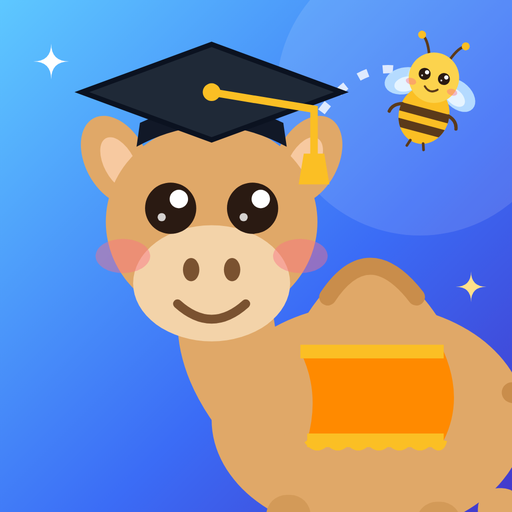
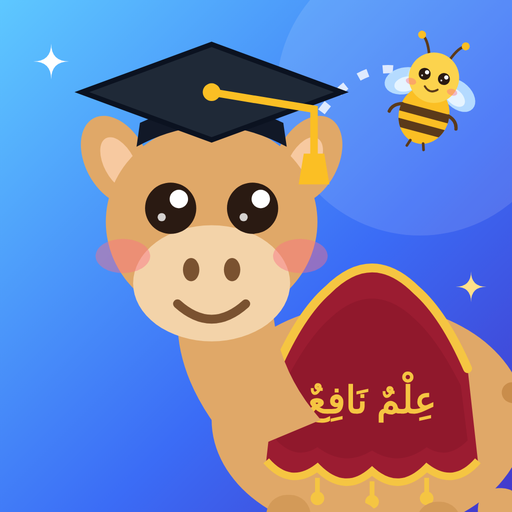
Сабур: настоящая бордовая попона по горбу с бахромой и кистями, каллиграфия «عِلْمٌ نَافِعٌ» (полезное знание)
Claude-Session: https://claude.ai/code/session_01Cm4BGiETkxANavc8i9VW5H

Changed region(s): [[0.5, 0.5, 0.9375, 1.0]]

diff --git a/index.html b/index.html
@@ -327,6 +327,7 @@ div.fb{cursor:default}
 body.plon{padding-bottom:300px}
 /* ===== Новое оформление в духе Учи.ру: светлая и тёмная тема (переключатель ☀/🌙) ===== */
 @font-face{font-family:'Nunito';src:url('fonts/nunito.woff') format('woff');font-weight:300 900;font-display:swap}
+@font-face{font-family:'Ruqaa';src:url('fonts/ruqaa.woff') format('woff');font-weight:700;font-display:swap}
 @font-face{font-family:'Hafs';src:url('fonts/hafs.woff') format('woff');font-display:swap}
 @font-face{font-family:'Sch';src:url('fonts/sch.woff') format('woff');font-display:swap}
 @font-face{font-family:'Sch';src:url('fonts/sch-b.woff') format('woff');font-weight:700;font-display:swap}
@@ -475,7 +476,7 @@ var OLD_EMOJI={"🦁":"b-lion","🐯":"b-tiger","🐺":"b-wolf","🐻":"b-bear",
   d.innerHTML='<svg xmlns="http://www.w3.org/2000/svg" width="0" height="0">'+AVS.map(function(a){return '<symbol id="av-'+a[0]+'" viewBox="0 0 100 100">'+a[3]+'</symbol>'}).join("")+'</svg>';
   document.body.appendChild(d)})();
 /* Персонажи платформы: верблюжонок Сабур и его помощница пчёлка Асаль */
-var MASC={"sab": "<ellipse cx=\"118\" cy=\"128\" rx=\"46\" ry=\"34\" fill=\"#e0a868\"/><path d=\"M96 104Q118 62 142 104Z\" fill=\"#e0a868\"/><path d=\"M106 92q12 -18 26 0\" stroke=\"#c98d4b\" stroke-width=\"5\" fill=\"none\" stroke-linecap=\"round\"/><rect x=\"88\" y=\"150\" width=\"13\" height=\"36\" rx=\"6\" fill=\"#d39a58\"/><rect x=\"108\" y=\"152\" width=\"13\" height=\"34\" rx=\"6\" fill=\"#e0a868\"/><rect x=\"132\" y=\"152\" width=\"13\" height=\"34\" rx=\"6\" fill=\"#d39a58\"/><rect x=\"150\" y=\"148\" width=\"13\" height=\"38\" rx=\"6\" fill=\"#e0a868\"/><path d=\"M160 120q16 4 14 22\" stroke=\"#c98d4b\" stroke-width=\"6\" fill=\"none\" stroke-linecap=\"round\"/><path d=\"M64 86Q56 112 80 138L104 128Q88 110 90 86Z\" fill=\"#e0a868\"/><ellipse cx=\"44\" cy=\"52\" rx=\"9\" ry=\"14\" transform=\"rotate(-28 44 52)\" fill=\"#e0a868\"/><ellipse cx=\"45\" cy=\"53\" rx=\"4.5\" ry=\"8.5\" transform=\"rotate(-28 45 53)\" fill=\"#f7c9a0\"/><ellipse cx=\"100\" cy=\"52\" rx=\"9\" ry=\"14\" transform=\"rotate(28 100 52)\" fill=\"#e0a868\"/><ellipse cx=\"99\" cy=\"53\" rx=\"4.5\" ry=\"8.5\" transform=\"rotate(28 99 53)\" fill=\"#f7c9a0\"/><ellipse cx=\"72\" cy=\"70\" rx=\"31\" ry=\"29\" fill=\"#e0a868\"/><ellipse cx=\"72\" cy=\"88\" rx=\"23\" ry=\"17\" fill=\"#f3d3a9\"/><circle cx=\"60\" cy=\"66\" r=\"7.5\" fill=\"#2a1a12\"/><circle cx=\"62.4\" cy=\"63.3\" r=\"2.6999999999999997\" fill=\"#fff\"/><circle cx=\"57.375\" cy=\"68.625\" r=\"1.2\" fill=\"#fff\" opacity=\".8\"/><circle cx=\"84\" cy=\"66\" r=\"7.5\" fill=\"#2a1a12\"/><circle cx=\"86.4\" cy=\"63.3\" r=\"2.6999999999999997\" fill=\"#fff\"/><circle cx=\"81.375\" cy=\"68.625\" r=\"1.2\" fill=\"#fff\" opacity=\".8\"/><ellipse cx=\"46\" cy=\"80\" rx=\"8\" ry=\"5\" fill=\"#fb7185\" opacity=\".45\"/><ellipse cx=\"98\" cy=\"80\" rx=\"8\" ry=\"5\" fill=\"#fb7185\" opacity=\".45\"/><ellipse cx=\"66\" cy=\"84\" rx=\"2.4\" ry=\"3.4\" fill=\"#7a5230\"/><ellipse cx=\"78\" cy=\"84\" rx=\"2.4\" ry=\"3.4\" fill=\"#7a5230\"/><path d=\"M62 94q10 9 20 0\" stroke=\"#7a5230\" stroke-width=\"2.6\" fill=\"none\" stroke-linecap=\"round\"/><path d=\"M98 108L140 108Q146 122 140 134L100 134Q104 120 98 108Z\" fill=\"#FF8A00\"/><path d=\"M98 108L140 108\" stroke=\"#fbbf24\" stroke-width=\"4\"/><path d=\"M100 134L140 134\" stroke=\"#fbbf24\" stroke-width=\"4\"/><path d=\"M100 134q3 4 6 0q3 4 6 0q3 4 6 0q3 4 6 0q3 4 6 0q3 4 6 0q3 4 4 0\" stroke=\"#FBBF24\" stroke-width=\"2\" fill=\"none\"/><path d=\"M50 48Q72 36 94 48L93 41Q72 31 51 41Z\" fill=\"#111827\"/><path d=\"M72 18L110 32L72 46L34 32Z\" fill=\"#1f2937\"/><path d=\"M72 18L110 32L72 46L34 32Z\" fill=\"none\" stroke=\"#0b1220\" stroke-width=\"1.5\"/><circle cx=\"72\" cy=\"32\" r=\"2.6\" fill=\"#fbbf24\"/><path d=\"M72 32L102 37L102 52\" stroke=\"#fbbf24\" stroke-width=\"2.2\" fill=\"none\" stroke-linecap=\"round\"/><path d=\"M99 50h6l1.5 9h-9Z\" fill=\"#fbbf24\"/>", "asl": "<ellipse cx=\"58\" cy=\"96\" rx=\"30\" ry=\"20\" transform=\"rotate(-28 58 96)\" fill=\"#bfe3ff\" opacity=\".9\"/><ellipse cx=\"142\" cy=\"96\" rx=\"30\" ry=\"20\" transform=\"rotate(28 142 96)\" fill=\"#bfe3ff\" opacity=\".9\"/><ellipse cx=\"62\" cy=\"100\" rx=\"18\" ry=\"11\" transform=\"rotate(-28 62 100)\" fill=\"#e6f4ff\"/><ellipse cx=\"138\" cy=\"100\" rx=\"18\" ry=\"11\" transform=\"rotate(28 138 100)\" fill=\"#e6f4ff\"/><defs><clipPath id=\"ms-bb\"><ellipse cx=\"100\" cy=\"138\" rx=\"38\" ry=\"44\"/><\/clipPath><\/defs><ellipse cx=\"100\" cy=\"138\" rx=\"38\" ry=\"44\" fill=\"#fbbf24\"/><g clip-path=\"url(#ms-bb)\"><rect x=\"50\" y=\"128\" width=\"100\" height=\"13\" fill=\"#5b3a1a\"/><rect x=\"50\" y=\"152\" width=\"100\" height=\"13\" fill=\"#5b3a1a\"/><\/g><path d=\"M90 180l-3 9M110 180l3 9\" stroke=\"#5b3a1a\" stroke-width=\"4\" stroke-linecap=\"round\"/><path d=\"M64 130q-14 4 -16 16M136 130q14 4 16 16\" stroke=\"#5b3a1a\" stroke-width=\"5\" fill=\"none\" stroke-linecap=\"round\"/><path d=\"M84 48Q76 26 66 22M116 48Q124 26 134 22\" stroke=\"#5b3a1a\" stroke-width=\"4\" fill=\"none\" stroke-linecap=\"round\"/><circle cx=\"66\" cy=\"22\" r=\"6\" fill=\"#fbbf24\"/><circle cx=\"134\" cy=\"22\" r=\"6\" fill=\"#fbbf24\"/><circle cx=\"100\" cy=\"80\" r=\"38\" fill=\"#fcd34d\"/><circle cx=\"85\" cy=\"78\" r=\"9\" fill=\"#2a1a12\"/><circle cx=\"87.88\" cy=\"74.76\" r=\"3.2399999999999998\" fill=\"#fff\"/><circle cx=\"81.85\" cy=\"81.15\" r=\"1.44\" fill=\"#fff\" opacity=\".8\"/><circle cx=\"115\" cy=\"78\" r=\"9\" fill=\"#2a1a12\"/><circle cx=\"117.88\" cy=\"74.76\" r=\"3.2399999999999998\" fill=\"#fff\"/><circle cx=\"111.85\" cy=\"81.15\" r=\"1.44\" fill=\"#fff\" opacity=\".8\"/><ellipse cx=\"68\" cy=\"94\" rx=\"8\" ry=\"5\" fill=\"#fb7185\" opacity=\".45\"/><ellipse cx=\"132\" cy=\"94\" rx=\"8\" ry=\"5\" fill=\"#fb7185\" opacity=\".45\"/><path d=\"M90 96q10 10 20 0\" stroke=\"#5b3a1a\" stroke-width=\"3\" fill=\"none\" stroke-linecap=\"round\"/>"};
+var MASC={"sab": "<ellipse cx=\"118\" cy=\"128\" rx=\"46\" ry=\"34\" fill=\"#e0a868\"/><path d=\"M96 104Q118 62 142 104Z\" fill=\"#e0a868\"/><path d=\"M91 113Q98 97 106 90Q119 77 132 90Q140 97 147 113L150 140Q143 148 135 142Q127 150 119 143Q111 150 103 142Q95 148 88 140Z\" fill=\"#9B1C31\"/><path d=\"M93 118Q100 104 107 98Q119 87 131 98Q138 104 145 118L147 134Q141 140 135 136Q127 142 119 137Q111 142 103 136Q97 140 91 134Z\" fill=\"#7A1225\" opacity=\".35\"/><path d=\"M91 113Q98 97 106 90Q119 77 132 90Q140 97 147 113\" stroke=\"#F5C542\" stroke-width=\"2.6\" fill=\"none\" stroke-linecap=\"round\"/><path d=\"M150 140Q143 148 135 142Q127 150 119 143Q111 150 103 142Q95 148 88 140\" stroke=\"#F5C542\" stroke-width=\"2.2\" fill=\"none\"/><path d=\"M103 145v5\" stroke=\"#F5C542\" stroke-width=\"1.4\"/><circle cx=\"103\" cy=\"151\" r=\"2\" fill=\"#F5C542\"/><path d=\"M119 146v5\" stroke=\"#F5C542\" stroke-width=\"1.4\"/><circle cx=\"119\" cy=\"152\" r=\"2\" fill=\"#F5C542\"/><path d=\"M135 145v5\" stroke=\"#F5C542\" stroke-width=\"1.4\"/><circle cx=\"135\" cy=\"151\" r=\"2\" fill=\"#F5C542\"/><text x=\"119\" y=\"126\" font-size=\"11\" text-anchor=\"middle\" fill=\"#F5C542\" style=\"font-family:Ruqaa,'Aref Ruqaa',serif;font-weight:700\">عِلْمٌ نَافِعٌ<\/text><rect x=\"88\" y=\"150\" width=\"13\" height=\"36\" rx=\"6\" fill=\"#d39a58\"/><rect x=\"108\" y=\"152\" width=\"13\" height=\"34\" rx=\"6\" fill=\"#e0a868\"/><rect x=\"132\" y=\"152\" width=\"13\" height=\"34\" rx=\"6\" fill=\"#d39a58\"/><rect x=\"150\" y=\"148\" width=\"13\" height=\"38\" rx=\"6\" fill=\"#e0a868\"/><path d=\"M160 120q16 4 14 22\" stroke=\"#c98d4b\" stroke-width=\"6\" fill=\"none\" stroke-linecap=\"round\"/><path d=\"M64 86Q56 112 80 138L104 128Q88 110 90 86Z\" fill=\"#e0a868\"/><ellipse cx=\"44\" cy=\"52\" rx=\"9\" ry=\"14\" transform=\"rotate(-28 44 52)\" fill=\"#e0a868\"/><ellipse cx=\"45\" cy=\"53\" rx=\"4.5\" ry=\"8.5\" transform=\"rotate(-28 45 53)\" fill=\"#f7c9a0\"/><ellipse cx=\"100\" cy=\"52\" rx=\"9\" ry=\"14\" transform=\"rotate(28 100 52)\" fill=\"#e0a868\"/><ellipse cx=\"99\" cy=\"53\" rx=\"4.5\" ry=\"8.5\" transform=\"rotate(28 99 53)\" fill=\"#f7c9a0\"/><ellipse cx=\"72\" cy=\"70\" rx=\"31\" ry=\"29\" fill=\"#e0a868\"/><ellipse cx=\"72\" cy=\"88\" rx=\"23\" ry=\"17\" fill=\"#f3d3a9\"/><circle cx=\"60\" cy=\"66\" r=\"7.5\" fill=\"#2a1a12\"/><circle cx=\"62.4\" cy=\"63.3\" r=\"2.6999999999999997\" fill=\"#fff\"/><circle cx=\"57.375\" cy=\"68.625\" r=\"1.2\" fill=\"#fff\" opacity=\".8\"/><circle cx=\"84\" cy=\"66\" r=\"7.5\" fill=\"#2a1a12\"/><circle cx=\"86.4\" cy=\"63.3\" r=\"2.6999999999999997\" fill=\"#fff\"/><circle cx=\"81.375\" cy=\"68.625\" r=\"1.2\" fill=\"#fff\" opacity=\".8\"/><ellipse cx=\"46\" cy=\"80\" rx=\"8\" ry=\"5\" fill=\"#fb7185\" opacity=\".45\"/><ellipse cx=\"98\" cy=\"80\" rx=\"8\" ry=\"5\" fill=\"#fb7185\" opacity=\".45\"/><ellipse cx=\"66\" cy=\"84\" rx=\"2.4\" ry=\"3.4\" fill=\"#7a5230\"/><ellipse cx=\"78\" cy=\"84\" rx=\"2.4\" ry=\"3.4\" fill=\"#7a5230\"/><path d=\"M62 94q10 9 20 0\" stroke=\"#7a5230\" stroke-width=\"2.6\" fill=\"none\" stroke-linecap=\"round\"/><path d=\"M50 48Q72 36 94 48L93 41Q72 31 51 41Z\" fill=\"#111827\"/><path d=\"M72 18L110 32L72 46L34 32Z\" fill=\"#1f2937\"/><path d=\"M72 18L110 32L72 46L34 32Z\" fill=\"none\" stroke=\"#0b1220\" stroke-width=\"1.5\"/><circle cx=\"72\" cy=\"32\" r=\"2.6\" fill=\"#fbbf24\"/><path d=\"M72 32L102 37L102 52\" stroke=\"#fbbf24\" stroke-width=\"2.2\" fill=\"none\" stroke-linecap=\"round\"/><path d=\"M99 50h6l1.5 9h-9Z\" fill=\"#fbbf24\"/>", "asl": "<ellipse cx=\"58\" cy=\"96\" rx=\"30\" ry=\"20\" transform=\"rotate(-28 58 96)\" fill=\"#bfe3ff\" opacity=\".9\"/><ellipse cx=\"142\" cy=\"96\" rx=\"30\" ry=\"20\" transform=\"rotate(28 142 96)\" fill=\"#bfe3ff\" opacity=\".9\"/><ellipse cx=\"62\" cy=\"100\" rx=\"18\" ry=\"11\" transform=\"rotate(-28 62 100)\" fill=\"#e6f4ff\"/><ellipse cx=\"138\" cy=\"100\" rx=\"18\" ry=\"11\" transform=\"rotate(28 138 100)\" fill=\"#e6f4ff\"/><defs><clipPath id=\"ms-bb\"><ellipse cx=\"100\" cy=\"138\" rx=\"38\" ry=\"44\"/><\/clipPath><\/defs><ellipse cx=\"100\" cy=\"138\" rx=\"38\" ry=\"44\" fill=\"#fbbf24\"/><g clip-path=\"url(#ms-bb)\"><rect x=\"50\" y=\"128\" width=\"100\" height=\"13\" fill=\"#5b3a1a\"/><rect x=\"50\" y=\"152\" width=\"100\" height=\"13\" fill=\"#5b3a1a\"/><\/g><path d=\"M90 180l-3 9M110 180l3 9\" stroke=\"#5b3a1a\" stroke-width=\"4\" stroke-linecap=\"round\"/><path d=\"M64 130q-14 4 -16 16M136 130q14 4 16 16\" stroke=\"#5b3a1a\" stroke-width=\"5\" fill=\"none\" stroke-linecap=\"round\"/><path d=\"M84 48Q76 26 66 22M116 48Q124 26 134 22\" stroke=\"#5b3a1a\" stroke-width=\"4\" fill=\"none\" stroke-linecap=\"round\"/><circle cx=\"66\" cy=\"22\" r=\"6\" fill=\"#fbbf24\"/><circle cx=\"134\" cy=\"22\" r=\"6\" fill=\"#fbbf24\"/><circle cx=\"100\" cy=\"80\" r=\"38\" fill=\"#fcd34d\"/><circle cx=\"85\" cy=\"78\" r=\"9\" fill=\"#2a1a12\"/><circle cx=\"87.88\" cy=\"74.76\" r=\"3.2399999999999998\" fill=\"#fff\"/><circle cx=\"81.85\" cy=\"81.15\" r=\"1.44\" fill=\"#fff\" opacity=\".8\"/><circle cx=\"115\" cy=\"78\" r=\"9\" fill=\"#2a1a12\"/><circle cx=\"117.88\" cy=\"74.76\" r=\"3.2399999999999998\" fill=\"#fff\"/><circle cx=\"111.85\" cy=\"81.15\" r=\"1.44\" fill=\"#fff\" opacity=\".8\"/><ellipse cx=\"68\" cy=\"94\" rx=\"8\" ry=\"5\" fill=\"#fb7185\" opacity=\".45\"/><ellipse cx=\"132\" cy=\"94\" rx=\"8\" ry=\"5\" fill=\"#fb7185\" opacity=\".45\"/><path d=\"M90 96q10 10 20 0\" stroke=\"#5b3a1a\" stroke-width=\"3\" fill=\"none\" stroke-linecap=\"round\"/>"};
 (function(){var d=document.createElement("div");d.setAttribute("aria-hidden","true");d.style.cssText="position:absolute;width:0;height:0;overflow:hidden";
   d.innerHTML='<svg xmlns="http://www.w3.org/2000/svg" width="0" height="0">'+Object.keys(MASC).map(function(k){return '<symbol id="ms-'+k+'" viewBox="0 0 200 200">'+MASC[k]+'</symbol>'}).join("")+'</svg>';document.body.appendChild(d)})();
 function mas(k,w,cls){return '<svg'+(cls?' class="'+cls+'"':"")+' viewBox="0 0 200 200" width="'+w+'" height="'+w+'" aria-hidden="true"><use href="#ms-'+k+'"/></svg>'}
